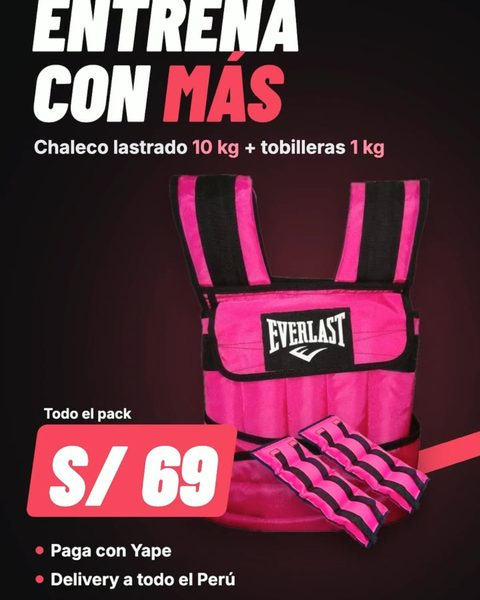
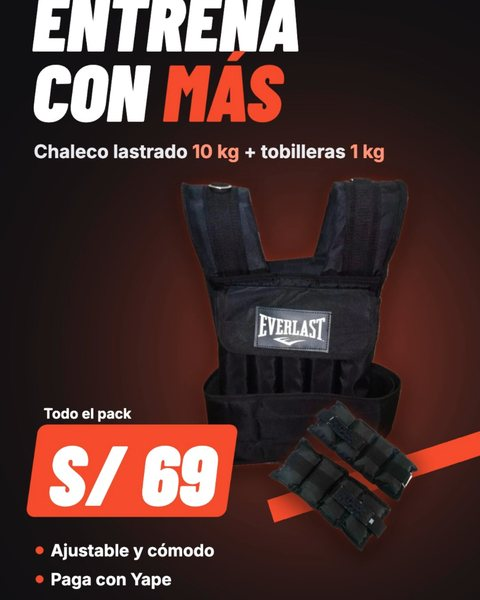
Instagram strip: add Nov 13 glutes reel

Changed region(s): [[0.0312, 0.06, 1.0, 0.93], [0.0625, 0.9, 0.5, 0.99]]

diff --git a/public/index.html b/public/index.html
@@ -209,14 +209,14 @@
         </div>
       </div>
       <ul id="ig-strip" class="ig-strip">
-        <li><a class="ig-post" href="https://www.instagram.com/treno_peru/reel/DfpimyHEnEU/" target="_blank" rel="noopener" aria-label="Reel de Instagram: Elige tu pack: chaleco lastrado 10, 15 o 20 kg desde S/ 69"><img src="assets/ig/ig-1.jpg?v=2" width="480" height="600" alt="" loading="lazy"><span class="ig-post__type" aria-hidden="true"><svg width="18" height="18" viewBox="0 0 24 24" fill="currentColor"><path d="M8 5v14l11-7z"/></svg></span></a></li>
-        <li><a class="ig-post" href="https://www.instagram.com/treno_peru/reel/Dfml6w2FAPw/" target="_blank" rel="noopener" aria-label="Reel de Instagram: 3 ejercicios con chaleco: sentadillas, zancadas y flexiones"><img src="assets/ig/ig-2.jpg" width="480" height="600" alt="" loading="lazy"><span class="ig-post__type" aria-hidden="true"><svg width="18" height="18" viewBox="0 0 24 24" fill="currentColor"><path d="M8 5v14l11-7z"/></svg></span></a></li>
-        <li><a class="ig-post" href="https://www.instagram.com/treno_peru/reel/DfkBL__j1FA/" target="_blank" rel="noopener" aria-label="Reel de Instagram: Entrena en rosa: pack chaleco 10 kg + tobilleras 1 kg a S/ 69"><img src="assets/ig/ig-3.jpg" width="480" height="600" alt="" loading="lazy"><span class="ig-post__type" aria-hidden="true"><svg width="18" height="18" viewBox="0 0 24 24" fill="currentColor"><path d="M8 5v14l11-7z"/></svg></span></a></li>
-        <li><a class="ig-post" href="https://www.instagram.com/treno_peru/reel/DfiyybgoReH/" target="_blank" rel="noopener" aria-label="Reel de Instagram: Entrena con más: pack chaleco 10 kg + tobilleras 1 kg a S/ 69"><img src="assets/ig/ig-4.jpg" width="480" height="600" alt="" loading="lazy"><span class="ig-post__type" aria-hidden="true"><svg width="18" height="18" viewBox="0 0 24 24" fill="currentColor"><path d="M8 5v14l11-7z"/></svg></span></a></li>
-        <li><a class="ig-post" href="https://www.instagram.com/treno_peru/reel/DfgdiuYpxv-/" target="_blank" rel="noopener" aria-label="Reel de Instagram: Pack rosado: chaleco lastrado 10 kg + tobilleras 1 kg a S/ 69"><img src="assets/ig/ig-5.jpg" width="480" height="600" alt="" loading="lazy"><span class="ig-post__type" aria-hidden="true"><svg width="18" height="18" viewBox="0 0 24 24" fill="currentColor"><path d="M8 5v14l11-7z"/></svg></span></a></li>
-        <li><a class="ig-post" href="https://www.instagram.com/treno_peru/p/Db1gT7wpOqf/" target="_blank" rel="noopener" aria-label="Publicación de Instagram: Entrena con más: pack chaleco lastrado 10 kg + tobilleras 1 kg"><img src="assets/ig/ig-6.jpg" width="480" height="600" alt="" loading="lazy"></a></li>
-        <li><a class="ig-post" href="https://www.instagram.com/treno_peru/reel/DXQp5BdNd_0/" target="_blank" rel="noopener" aria-label="Reel de Instagram: Entrenamiento con pesa rusa"><img src="assets/ig/ig-7.jpg" width="480" height="600" alt="" loading="lazy"><span class="ig-post__type" aria-hidden="true"><svg width="18" height="18" viewBox="0 0 24 24" fill="currentColor"><path d="M8 5v14l11-7z"/></svg></span></a></li>
-        <li><a class="ig-post" href="https://www.instagram.com/treno_peru/p/DRdzcF2APU4/" target="_blank" rel="noopener" aria-label="Publicación de Instagram: Entrena hoy, transforma tu día"><img src="assets/ig/ig-8.jpg" width="480" height="600" alt="" loading="lazy"></a></li>
+        <li><a class="ig-post" href="https://www.instagram.com/treno_peru/reel/Dfrve8mE39_/" target="_blank" rel="noopener" aria-label="Reel de Instagram: Activa tus glúteos en casa con tobilleras, pack rosado a S/ 69"><img src="assets/ig/ig-1.jpg?v=3" width="480" height="600" alt="" loading="lazy"><span class="ig-post__type" aria-hidden="true"><svg width="18" height="18" viewBox="0 0 24 24" fill="currentColor"><path d="M8 5v14l11-7z"/></svg></span></a></li>
+        <li><a class="ig-post" href="https://www.instagram.com/treno_peru/reel/DfpimyHEnEU/" target="_blank" rel="noopener" aria-label="Reel de Instagram: Elige tu pack: chaleco lastrado 10, 15 o 20 kg desde S/ 69"><img src="assets/ig/ig-2.jpg?v=3" width="480" height="600" alt="" loading="lazy"><span class="ig-post__type" aria-hidden="true"><svg width="18" height="18" viewBox="0 0 24 24" fill="currentColor"><path d="M8 5v14l11-7z"/></svg></span></a></li>
+        <li><a class="ig-post" href="https://www.instagram.com/treno_peru/reel/Dfml6w2FAPw/" target="_blank" rel="noopener" aria-label="Reel de Instagram: 3 ejercicios con chaleco: sentadillas, zancadas y flexiones"><img src="assets/ig/ig-3.jpg?v=3" width="480" height="600" alt="" loading="lazy"><span class="ig-post__type" aria-hidden="true"><svg width="18" height="18" viewBox="0 0 24 24" fill="currentColor"><path d="M8 5v14l11-7z"/></svg></span></a></li>
+        <li><a class="ig-post" href="https://www.instagram.com/treno_peru/reel/DfkBL__j1FA/" target="_blank" rel="noopener" aria-label="Reel de Instagram: Entrena en rosa: pack chaleco 10 kg + tobilleras 1 kg a S/ 69"><img src="assets/ig/ig-4.jpg?v=3" width="480" height="600" alt="" loading="lazy"><span class="ig-post__type" aria-hidden="true"><svg width="18" height="18" viewBox="0 0 24 24" fill="currentColor"><path d="M8 5v14l11-7z"/></svg></span></a></li>
+        <li><a class="ig-post" href="https://www.instagram.com/treno_peru/reel/DfiyybgoReH/" target="_blank" rel="noopener" aria-label="Reel de Instagram: Entrena con más: pack chaleco 10 kg + tobilleras 1 kg a S/ 69"><img src="assets/ig/ig-5.jpg?v=3" width="480" height="600" alt="" loading="lazy"><span class="ig-post__type" aria-hidden="true"><svg width="18" height="18" viewBox="0 0 24 24" fill="currentColor"><path d="M8 5v14l11-7z"/></svg></span></a></li>
+        <li><a class="ig-post" href="https://www.instagram.com/treno_peru/reel/DfgdiuYpxv-/" target="_blank" rel="noopener" aria-label="Reel de Instagram: Pack rosado: chaleco lastrado 10 kg + tobilleras 1 kg a S/ 69"><img src="assets/ig/ig-6.jpg?v=3" width="480" height="600" alt="" loading="lazy"><span class="ig-post__type" aria-hidden="true"><svg width="18" height="18" viewBox="0 0 24 24" fill="currentColor"><path d="M8 5v14l11-7z"/></svg></span></a></li>
+        <li><a class="ig-post" href="https://www.instagram.com/treno_peru/p/Db1gT7wpOqf/" target="_blank" rel="noopener" aria-label="Publicación de Instagram: Entrena con más: pack chaleco lastrado 10 kg + tobilleras 1 kg"><img src="assets/ig/ig-7.jpg?v=3" width="480" height="600" alt="" loading="lazy"></a></li>
+        <li><a class="ig-post" href="https://www.instagram.com/treno_peru/reel/DXQp5BdNd_0/" target="_blank" rel="noopener" aria-label="Reel de Instagram: Entrenamiento con pesa rusa"><img src="assets/ig/ig-8.jpg?v=3" width="480" height="600" alt="" loading="lazy"><span class="ig-post__type" aria-hidden="true"><svg width="18" height="18" viewBox="0 0 24 24" fill="currentColor"><path d="M8 5v14l11-7z"/></svg></span></a></li>
       </ul>
       <p class="social__link"><a class="button" href="https://www.instagram.com/treno_peru" target="_blank" rel="noopener">Síguenos en Instagram</a><a class="button button--outline" href="https://www.facebook.com/treno.peru" target="_blank" rel="noopener">Facebook TRENO Perú</a></p>
     </section>
